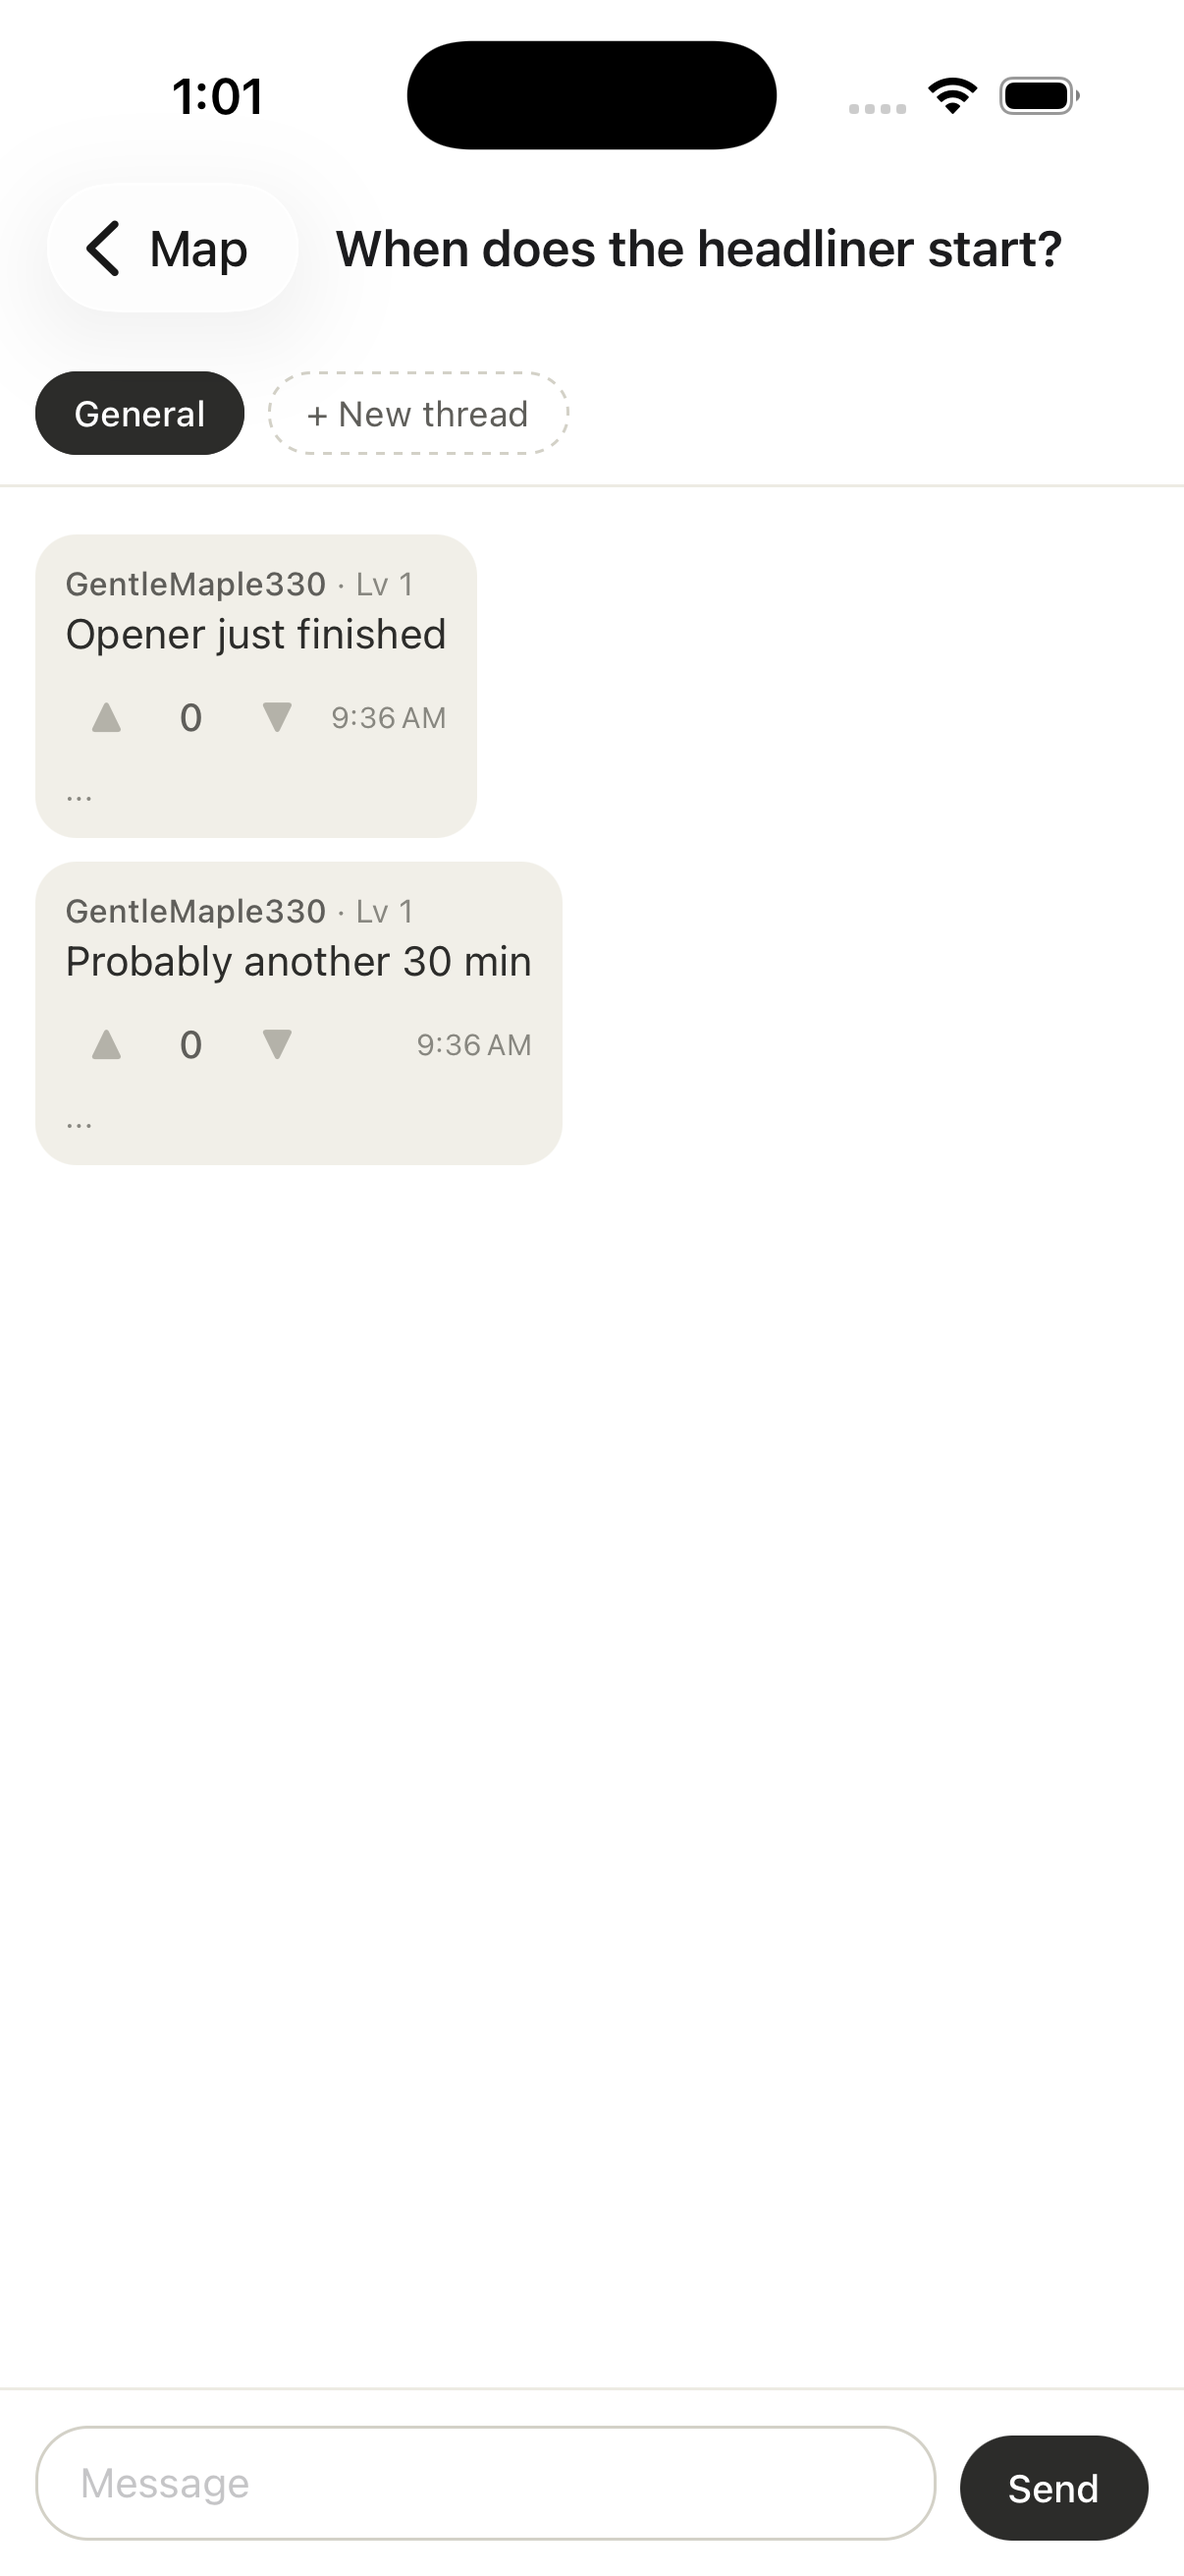
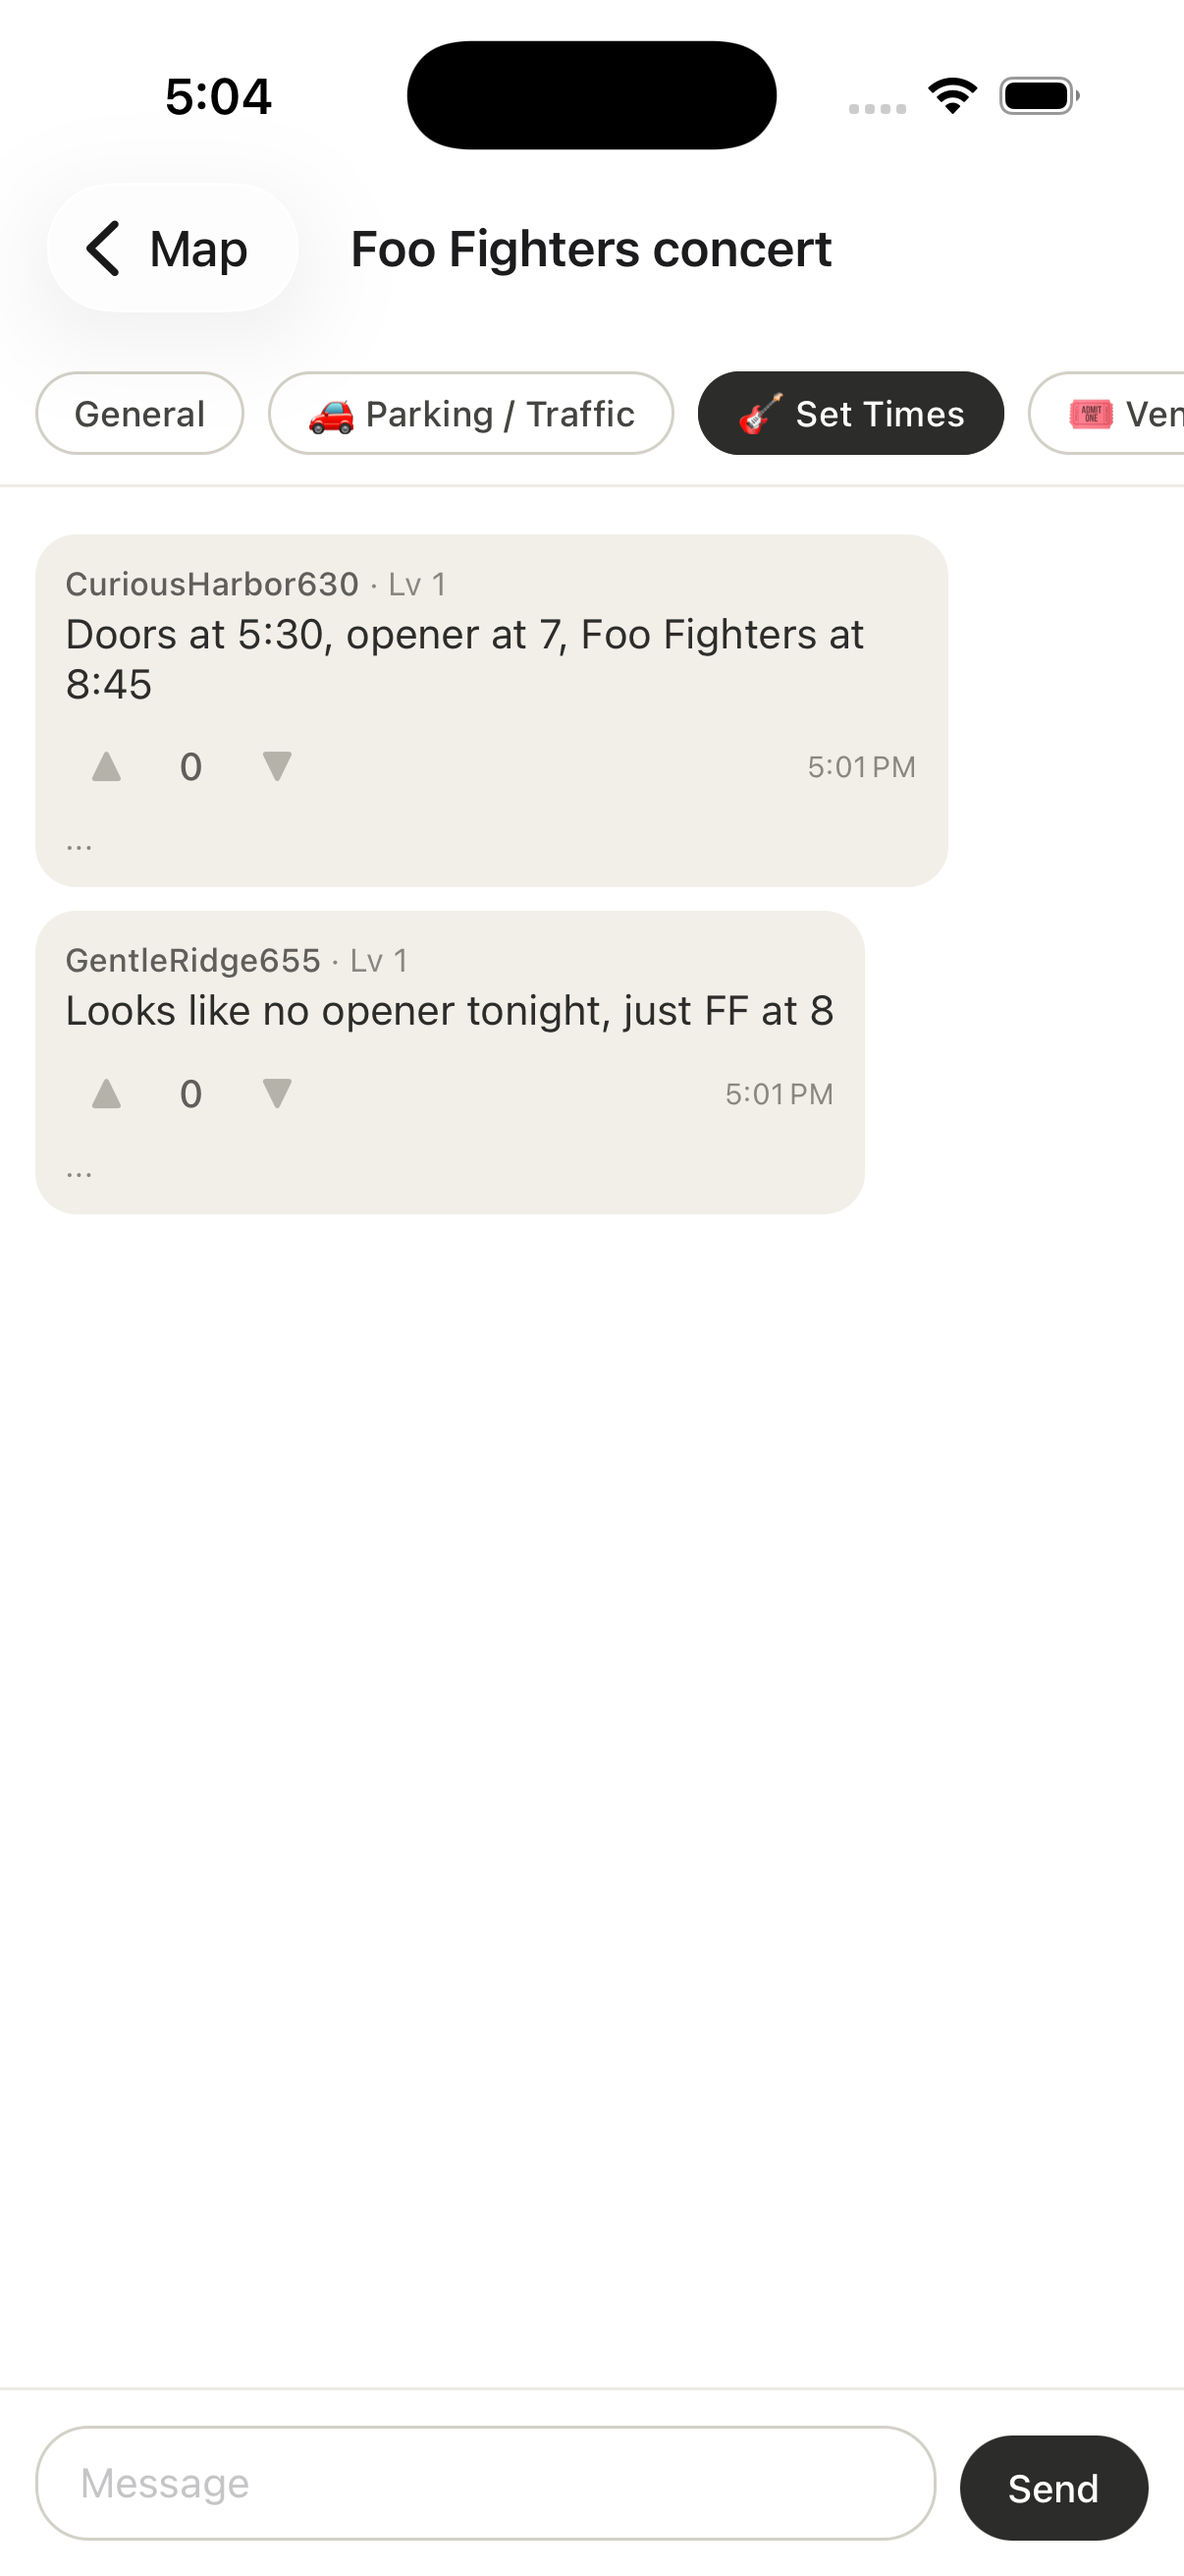
Add bulk demo-seeding dev tool; use it for the GitHub Pages screenshots
- mockBackend.ts: devSeedParticipants(conversationId, count) bulk-adds
  synthetic participants efficiently (single notify instead of one per
  join, needed at counts in the hundreds/thousands). devListConversations()
  exposes titles alongside ids for the dev panel. devSeedFooFightersDemo
  seeds an existing conversation with 1,400 participants and 6 topic
  threads (Parking/Traffic, Set Times, Venue Questions, Food & Drinks,
  Rideshare, Merch), each pre-populated with realistic messages.
- DevPanelScreen: shows each conversation's title and a "Seed demo"
  button per row to trigger it.
- Demo site screenshots regenerated from a real "Foo Fighters concert"
  chat at SoFi Stadium seeded via the above - map view shows the actual
  1,400+ participant count and full-venue radius ring, conversation view
  shows the Set Times topic thread.

diff --git a/mobile-app/src/services/mockBackend.ts b/mobile-app/src/services/mockBackend.ts
@@ -607,6 +607,101 @@ export async function devAddSyntheticMessage(conversationId: string, body?: stri
   await sendMessage(generalThread.id, user, body ?? "Anyone have an update?");
 }
 
+// Bulk participant seeding for demo purposes. Bypasses the full
+// joinConversation path (which notifies on every call) - at counts in the
+// hundreds/thousands that would mean that many redundant re-renders, so this
+// sets participant records directly and notifies once at the end instead.
+// Jittering within 0.6x the radius (same bound devAddSyntheticParticipant
+// uses) makes "inside" a safe assumption without an eligibility check per
+// participant.
+export async function devSeedParticipants(conversationId: string, count: number): Promise<void> {
+  const conv = conversations.get(conversationId);
+  const convParticipants = participants.get(conversationId);
+  if (!conv || !convParticipants) return;
+  for (let i = 0; i < count; i++) {
+    const user = await createUser();
+    convParticipants.set(user.id, {
+      userId: user.id,
+      state: "inside",
+      joinedAt: nowIso(),
+      graceStartedAt: undefined,
+    });
+  }
+  recomputeParticipantCount(conversationId);
+  notifyMap();
+  notifyConversation(conversationId);
+}
+
+const FOO_FIGHTERS_THREADS: { title: string; messages: string[] }[] = [
+  {
+    title: "🚗 Parking / Traffic",
+    messages: [
+      "Prairie Ave lot is already half full, get here early",
+      "Lot C is closed for VIP tonight, use Lot D instead",
+    ],
+  },
+  {
+    title: "🎸 Set Times",
+    messages: ["Doors at 5:30, opener at 7, Foo Fighters at 8:45", "Looks like no opener tonight, just FF at 8"],
+  },
+  {
+    title: "🎟 Venue Questions",
+    messages: [
+      "Will call is at the north box office, not the main gate",
+      "Bag policy is clear bags only, they're checking hard tonight",
+    ],
+  },
+  {
+    title: "🍺 Food & Drinks",
+    messages: [
+      "Beer lines on the club level are way shorter right now",
+      "Loaded fries stand by section 120 is open, no line yet",
+    ],
+  },
+  {
+    title: "🚕 Rideshare",
+    messages: [
+      "Uber/Lyft pickup moved to Lot J, not the main entrance",
+      "Surge already at 2.5x - might be faster to walk to Lot P",
+    ],
+  },
+  {
+    title: "🛍 Merch",
+    messages: [
+      "Merch tent by gate 3 still has tour shirts, gate 1 sold out of mediums",
+      "They're taking Apple Pay at the merch stands now, not just cash",
+    ],
+  },
+];
+
+async function seedThreadMessages(conversationId: string, threadId: string, lines: string[]): Promise<void> {
+  const conv = conversations.get(conversationId);
+  if (!conv) return;
+  for (const line of lines) {
+    const user = await createUser();
+    await joinConversation(user.id, conversationId, conv.location);
+    await sendMessage(threadId, user, line);
+  }
+}
+
+// One-off demo seeding for an already-created conversation: a large
+// participant count plus a set of topic threads (parking, set times, etc.),
+// each pre-seeded with a couple of realistic messages - built for taking
+// representative screenshots of a big, active event chat.
+export async function devSeedFooFightersDemo(conversationId: string): Promise<void> {
+  await devSeedParticipants(conversationId, 1400);
+
+  const generalThread = getConversationThreads(conversationId).find((t) => t.isGeneral);
+  if (generalThread) {
+    await seedThreadMessages(conversationId, generalThread.id, ["Anyone else here early?", "This crowd is huge tonight"]);
+  }
+
+  for (const { title, messages } of FOO_FIGHTERS_THREADS) {
+    const thread = await createThread(conversationId, title, "seed");
+    await seedThreadMessages(conversationId, thread.id, messages);
+  }
+}
+
 export async function devExpireConversation(conversationId: string): Promise<void> {
   const conv = conversations.get(conversationId);
   if (!conv) return;
@@ -657,4 +752,8 @@ export function devResetAll(): void {
 
 export function devListConversationIds(): string[] {
   return Array.from(conversations.keys());
+}
+
+export function devListConversations(): { id: string; title: string }[] {
+  return Array.from(conversations.values()).map((c) => ({ id: c.id, title: c.title }));
 }

diff --git a/mobile-app/src/screens/DevPanelScreen.tsx b/mobile-app/src/screens/DevPanelScreen.tsx
@@ -19,7 +19,21 @@ export function DevPanelScreen() {
 
   const [lat, setLat] = useState(String(devSimulatedLocation?.lat ?? 37.6213));
   const [lng, setLng] = useState(String(devSimulatedLocation?.lng ?? -122.3790));
-  const [conversationIds, setConversationIds] = useState<string[]>(backend.devListConversationIds());
+  const [conversations, setConversations] = useState(backend.devListConversations());
+  const [seedingId, setSeedingId] = useState<string>();
+
+  function refreshConversations() {
+    setConversations(backend.devListConversations());
+  }
+
+  async function seedFooFightersDemo(id: string) {
+    setSeedingId(id);
+    try {
+      await backend.devSeedFooFightersDemo(id);
+    } finally {
+      setSeedingId(undefined);
+    }
+  }
 
   function applyLocation() {
     const parsedLat = parseFloat(lat);
@@ -49,12 +63,12 @@ export function DevPanelScreen() {
     if (!devSimulatedLocation) applyLocation();
     const center = devSimulatedLocation ?? { lat: parseFloat(lat), lng: parseFloat(lng) };
     await backend.devLoadScenario(name, center);
-    setConversationIds(backend.devListConversationIds());
+    refreshConversations();
   }
 
   async function resetAll() {
     backend.devResetAll();
-    setConversationIds([]);
+    setConversations([]);
   }
 
   return (
@@ -106,9 +120,10 @@ export function DevPanelScreen() {
         </Pressable>
       </View>
 
-      <Text style={styles.sectionTitle}>Active conversations ({conversationIds.length})</Text>
-      {conversationIds.map((id) => (
+      <Text style={styles.sectionTitle}>Active conversations ({conversations.length})</Text>
+      {conversations.map(({ id, title }) => (
         <View key={id} style={styles.convRow}>
+          <Text style={styles.convTitle}>{title}</Text>
           <Text style={styles.convId}>{id}</Text>
           <View style={styles.buttonRow}>
             <Pressable style={styles.smallButton} onPress={() => backend.devAddSyntheticParticipant(id)}>
@@ -121,6 +136,15 @@ export function DevPanelScreen() {
               <Text style={styles.smallButtonDangerText}>Expire now</Text>
             </Pressable>
           </View>
+          <Pressable
+            style={[styles.seedButton, seedingId === id && styles.seedButtonDisabled]}
+            onPress={() => seedFooFightersDemo(id)}
+            disabled={seedingId === id}
+          >
+            <Text style={styles.seedButtonText}>
+              {seedingId === id ? "Seeding 1,400 participants + threads..." : "Seed demo: 1,400 participants + topic threads"}
+            </Text>
+          </Pressable>
         </View>
       ))}
 
@@ -148,11 +172,15 @@ const styles = StyleSheet.create({
   scenarioChip: { backgroundColor: "#F1EFE8", borderRadius: 999, paddingVertical: 8, paddingHorizontal: 12 },
   scenarioChipText: { fontSize: 12, color: "#2C2C2A" },
   convRow: { borderTopWidth: 1, borderTopColor: "#EDEBE3", paddingVertical: 10 },
+  convTitle: { fontSize: 13, fontWeight: "500", marginBottom: 2 },
   convId: { fontSize: 11, color: "#888780", marginBottom: 6, fontFamily: "Courier" },
   smallButton: { borderWidth: 1, borderColor: "#D3D1C7", borderRadius: 8, paddingVertical: 6, paddingHorizontal: 10 },
   smallButtonText: { fontSize: 11, color: "#444441" },
   smallButtonDanger: { borderWidth: 1, borderColor: "#F09595", borderRadius: 8, paddingVertical: 6, paddingHorizontal: 10 },
   smallButtonDangerText: { fontSize: 11, color: "#A32D2D" },
+  seedButton: { backgroundColor: "#FAEEDA", borderRadius: 8, paddingVertical: 8, paddingHorizontal: 10, marginTop: 8, alignItems: "center" },
+  seedButtonDisabled: { opacity: 0.5 },
+  seedButtonText: { fontSize: 11, color: "#412402", fontWeight: "500" },
   resetButton: { marginTop: 24, alignItems: "center" },
   resetButtonText: { fontSize: 13, color: "#A32D2D", textDecorationLine: "underline" },
 });

diff --git a/docs/index.html b/docs/index.html
@@ -337,12 +337,12 @@
     <p class="lead">Screenshots from the iOS Simulator, running the current build.</p>
     <div class="gallery">
       <figure>
-        <div class="phone-frame"><img src="screenshots/map-view.png" alt="Map screen showing a conversation bubble with a to-scale radius ring"></div>
-        <figcaption><strong>Map</strong>Chats appear as info cards, each with a ring showing exactly how far its radius reaches.</figcaption>
+        <div class="phone-frame"><img src="screenshots/map-view.png" alt="Map screen showing a 1,400+ person concert chat with a to-scale radius ring covering SoFi Stadium"></div>
+        <figcaption><strong>Map</strong>A 1,400-person chat at SoFi Stadium, its radius ring covering the whole venue.</figcaption>
       </figure>
       <figure>
-        <div class="phone-frame"><img src="screenshots/chat-view.png" alt="Conversation screen with threads, messages, and voting"></div>
-        <figcaption><strong>Conversation</strong>Threads, usernames with levels, reply quotes, and up/down voting on messages.</figcaption>
+        <div class="phone-frame"><img src="screenshots/chat-view.png" alt="Conversation screen showing the Set Times topic thread within a large concert chat"></div>
+        <figcaption><strong>Conversation</strong>Topic threads like Set Times keep a huge chat organized instead of one long feed.</figcaption>
       </figure>
       <figure>
         <div class="phone-frame"><img src="screenshots/create-chat.png" alt="Create chat sheet showing category selection and live radius preview"></div>
